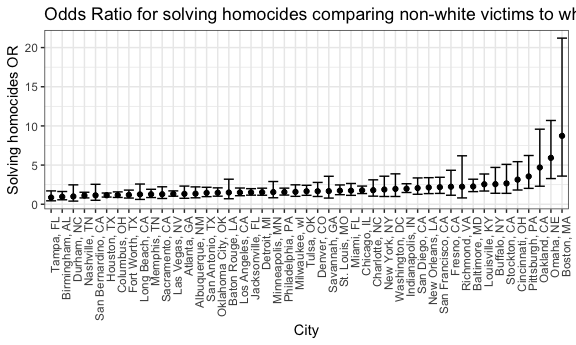
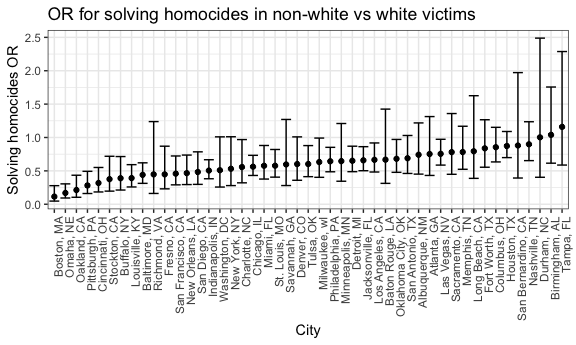
Finished

diff --git a/p8105_hw6_qg2155.md b/p8105_hw6_qg2155.md
@@ -67,7 +67,7 @@ homocide_data = homocide_data_raw %>%
          victim_race = fct_relevel(victim_race, "White"),
          victim_age = as.numeric(victim_age),
          case_status = if_else(disposition == "Closed by arrest", "Resolved", "Unresolved"),
-         case_status = fct_relevel(case_status, "Resolved")) %>%
+         case_status = fct_relevel(case_status, "Unresolved")) %>%
          mutate(city_state = paste(city,state, sep = ", ")) %>% 
          filter(!city_state %in% c("Dallas, TX", "Phoenix, AZ", "Kansas City, MO", "Tulsa, AL"))
 ```
@@ -90,8 +90,8 @@ baltimore_logistic =
   glm(case_status ~ victim_age + victim_sex + victim_race, data = ., family = binomial()) %>% 
   broom::tidy() %>% 
   mutate(OR = exp(estimate),
-         ci_l = exp(estimate - std.error * 1.96),
-         ci_h = exp(estimate + std.error * 1.96)) %>% 
+         ci_l = exp(estimate - (std.error * 1.96)),
+         ci_h = exp(estimate + (std.error * 1.96))) %>% 
   select(term, log_OR = estimate, OR, ci_l, ci_h, p.value) %>% 
   filter(term == "victim_raceNon-white") %>% 
   knitr::kable(digits = 3)
@@ -99,13 +99,15 @@ baltimore_logistic =
 baltimore_logistic
 ```
 
-| term                  |  log\_OR|    OR|  ci\_l|  ci\_h|  p.value|
-|:----------------------|--------:|-----:|------:|------:|--------:|
-| victim\_raceNon-white |     0.82|  2.27|  1.612|  3.196|        0|
+| term                  |  log\_OR|     OR|  ci\_l|  ci\_h|  p.value|
+|:----------------------|--------:|------:|------:|------:|--------:|
+| victim\_raceNon-white |    -0.82|  0.441|  0.313|   0.62|        0|
+
+In Baltimore, non-white victims have 0.441 times the odds of having a resolved homocide compared to white victims. We are 95% confident that the true odds ratio lies between 0.313 and 0.62. This odds ratio is statistically significant since the 95% confidence interval does not include the null value of 1 and the p-value is very close to 0.
 
 ### Logistic regression for all cities
 
-Odds ratio for solving homocides comparing non-white victims to white victims in every city
+Odds ratio for solving homocides comparing non-white victims to white victims in every city.
 
 Create nested dataset using city\_state
 
@@ -143,18 +145,18 @@ city_results
 ```
 
     ## # A tibble: 47 x 8
-    ##    city_state   data         term        log_OR    OR  ci_l  ci_h  p.value
-    ##    <chr>        <list>       <chr>        <dbl> <dbl> <dbl> <dbl>    <dbl>
-    ##  1 Albuquerque… <tibble [37… victim_ra…  0.299  1.35  0.821  2.22  2.38e-1
-    ##  2 Atlanta, GA  <tibble [97… victim_ra…  0.284  1.33  0.761  2.32  3.17e-1
-    ##  3 Baltimore, … <tibble [2,… victim_ra…  0.820  2.27  1.61   3.20  2.68e-6
-    ##  4 Baton Rouge… <tibble [42… victim_ra…  0.404  1.50  0.702  3.20  2.96e-1
-    ##  5 Birmingham,… <tibble [80… victim_ra… -0.0385 0.962 0.569  1.63  8.86e-1
-    ##  6 Boston, MA   <tibble [61… victim_ra…  2.17   8.73  3.59  21.2   1.72e-6
-    ##  7 Buffalo, NY  <tibble [52… victim_ra…  0.942  2.56  1.40   4.70  2.31e-3
-    ##  8 Charlotte, … <tibble [68… victim_ra…  0.584  1.79  1.03   3.12  3.83e-2
-    ##  9 Chicago, IL  <tibble [5,… victim_ra…  0.576  1.78  1.36   2.32  2.07e-5
-    ## 10 Cincinnati,… <tibble [69… victim_ra…  1.14   3.14  1.82   5.43  4.28e-5
+    ##    city_state   data        term        log_OR    OR   ci_l  ci_h  p.value
+    ##    <chr>        <list>      <chr>        <dbl> <dbl>  <dbl> <dbl>    <dbl>
+    ##  1 Albuquerque… <tibble [3… victim_ra… -0.299  0.741 0.451  1.22   2.38e-1
+    ##  2 Atlanta, GA  <tibble [9… victim_ra… -0.284  0.753 0.432  1.31   3.17e-1
+    ##  3 Baltimore, … <tibble [2… victim_ra… -0.820  0.441 0.313  0.620  2.68e-6
+    ##  4 Baton Rouge… <tibble [4… victim_ra… -0.404  0.668 0.313  1.43   2.96e-1
+    ##  5 Birmingham,… <tibble [8… victim_ra…  0.0385 1.04  0.615  1.76   8.86e-1
+    ##  6 Boston, MA   <tibble [6… victim_ra… -2.17   0.115 0.0472 0.278  1.72e-6
+    ##  7 Buffalo, NY  <tibble [5… victim_ra… -0.942  0.390 0.213  0.715  2.31e-3
+    ##  8 Charlotte, … <tibble [6… victim_ra… -0.584  0.558 0.321  0.969  3.83e-2
+    ##  9 Chicago, IL  <tibble [5… victim_ra… -0.576  0.562 0.431  0.733  2.07e-5
+    ## 10 Cincinnati,… <tibble [6… victim_ra… -1.14   0.318 0.184  0.551  4.28e-5
     ## # ... with 37 more rows
 
 Create plot for OR of each city
@@ -166,7 +168,7 @@ city_results %>%
   geom_point() +
   geom_errorbar(aes(ymin = ci_l, ymax = ci_h)) +
   labs(
-    title = "Odds Ratio for solving homocides comparing non-white victims to white victims by city",
+    title = "OR for solving homocides in non-white vs white victims",
     x = "City",
     y = "Solving homocides OR"
   ) +
@@ -175,7 +177,7 @@ city_results %>%
 
 <img src="p8105_hw6_qg2155_files/figure-markdown_github/city plot-1.png" width="90%" />
 
-Boston has the highest odds of solved homocides for non-white victims.
+As seen from this plot, Boston has the lowest odds of solved homocides for non-white victims. Followed by Omaha and Oakland all at an odds ratio of under 0.25. The cities where non-white victims have highest odds for solved homocides compared to white victims are Tampa, Birmingham, and Durham with odds ratios between 1 and 1.25. These cities with high odds ratios also have much wider confidence intervals, especially Durham with the upper bounds reaching 2.5.
 
 Question 2
 ----------
@@ -200,7 +202,7 @@ bw_data = read_csv(file = "./birthweight.csv") %>%
 
     ## See spec(...) for full column specifications.
 
-This dataset has 4342 observations and 20 variables. Categorical variables have been switched to factors. Using the commant skimr::skim, none of the variables seem to be missing any observations.
+This dataset has 4342 observations and 20 variables. Categorical variables have been switched to factors. Using skimr::skim, we can see that none of the variables seem to be missing any observations.
 
 ``` r
 bw_data %>% 
@@ -211,7 +213,7 @@ bw_data %>%
     ##  n obs: 4342 
     ##  n variables: 20 
     ## 
-    ## ── Variable type:factor ─────────────────────────────────────────────────────
+    ## ── Variable type:factor ────────────────────────────────────────────────────────
     ##  variable missing complete    n n_unique                      top_counts
     ##   babysex       0     4342 4342        2         1: 2230, 2: 2112, NA: 0
     ##     frace       0     4342 4342        5 1: 2123, 2: 1911, 4: 248, 3: 46
@@ -223,7 +225,7 @@ bw_data %>%
     ##    FALSE
     ##    FALSE
     ## 
-    ## ── Variable type:integer ────────────────────────────────────────────────────
+    ## ── Variable type:integer ───────────────────────────────────────────────────────
     ##  variable missing complete    n      mean     sd  p0  p25    p50  p75 p100
     ##     bhead       0     4342 4342   33.65     1.62  21   33   34     35   41
     ##   blength       0     4342 4342   49.75     2.72  20   48   50     51   63
@@ -253,7 +255,7 @@ bw_data %>%
     ##  ▁▇▆▁▁▁▁▁
     ##  ▁▁▁▇▇▁▁▁
     ## 
-    ## ── Variable type:numeric ────────────────────────────────────────────────────
+    ## ── Variable type:numeric ───────────────────────────────────────────────────────
     ##  variable missing complete    n  mean   sd    p0   p25   p50   p75 p100
     ##   gaweeks       0     4342 4342 39.43 3.15 17.7  38.3  39.9  41.1  51.3
     ##     ppbmi       0     4342 4342 21.57 3.18 13.07 19.53 21.03 22.91 46.1
@@ -265,7 +267,12 @@ bw_data %>%
 
 ### Proposed linear model for birthweight (bwt)
 
-mother's age at devlivery: momage, previous number of low birth weight babies: pnumlbw, family monthly income: fincome, gestational age in weeks: gaweeks
+I picked the following predictors because they seem to be related to baby birthweight based on prior knowledge from other public health courses.
+
+-   mother's age at devlivery: momage,
+-   previous number of low birth weight babies: pnumlbw,
+-   family monthly income: fincome,
+-   gestational age in weeks: gaweeks
 
 ``` r
 bwt_linear = lm(bwt ~ momage + pnumlbw + fincome + gaweeks, data = bw_data) 
@@ -273,28 +280,68 @@ bwt_linear = lm(bwt ~ momage + pnumlbw + fincome + gaweeks, data = bw_data)
 
 Graphing the proposed linear model
 
+Violin plots for residuals and predictors
+
+``` r
+bw_data %>% 
+  modelr::add_residuals(bwt_linear) %>% 
+  ggplot(aes(x = momage, y = resid)) + geom_violin()
+```
+
+<img src="p8105_hw6_qg2155_files/figure-markdown_github/unnamed-chunk-4-1.png" width="90%" />
+
+``` r
+bw_data %>% 
+  modelr::add_residuals(bwt_linear) %>% 
+  ggplot(aes(x = pnumlbw, y = resid)) + geom_violin()
+```
+
+<img src="p8105_hw6_qg2155_files/figure-markdown_github/unnamed-chunk-4-2.png" width="90%" />
+
+``` r
+bw_data %>% 
+  modelr::add_residuals(bwt_linear) %>% 
+  ggplot(aes(x = fincome, y = resid)) + geom_violin()
+```
+
+<img src="p8105_hw6_qg2155_files/figure-markdown_github/unnamed-chunk-4-3.png" width="90%" />
+
+``` r
+bw_data %>% 
+  modelr::add_residuals(bwt_linear) %>% 
+  ggplot(aes(x = gaweeks, y = resid)) + geom_violin()
+```
+
+<img src="p8105_hw6_qg2155_files/figure-markdown_github/unnamed-chunk-4-4.png" width="90%" />
+
+-   These violin plots show that the residual is around 0 for each of the predictors, which is what we want to see.
+
 ``` r
 bw_data %>% 
   add_residuals(bwt_linear) %>% 
   add_predictions(bwt_linear) %>% 
-  ggplot(aes(x = pred, y = resid)) + geom_point()
+  ggplot(aes(x = pred, y = resid)) + 
+  geom_point() +
+  labs(
+    title = "Model residuals vs Fitted values",
+    x = "Predicted (fitted) values",
+    y = "Residuals"
+  ) 
 ```
 
-    ## Warning in predict.lm(model, data): prediction from a rank-deficient fit
-    ## may be misleading
+<img src="p8105_hw6_qg2155_files/figure-markdown_github/unnamed-chunk-5-1.png" width="90%" />
 
-    ## Warning in predict.lm(model, data): prediction from a rank-deficient fit
-    ## may be misleading
+This graph show that there is a random scatter of residuals where there is no particular pattern or trend seen in residuals of fitted values. This means that they are independent from the fitted values. Furthermore, the data points are generally scattered around 0 for residuals as expected.
 
-<img src="p8105_hw6_qg2155_files/figure-markdown_github/unnamed-chunk-4-1.png" width="90%" />
-
-Main effect and interaction models
+### Main effect and interaction models
 
 ``` r
 bwt_maineff = lm(bwt ~ blength + gaweeks, data = bw_data)
 
 bwt_interact = lm(bwt ~ bhead + blength + babysex + bhead*blength + bhead*babysex + blength*babysex + bhead*blength*babysex, data = bw_data)
 ```
+
+### Cross validation
 
 ``` r
 cv_df = 
@@ -304,7 +351,7 @@ cv_df =
 ``` r
 cv_df = 
   cv_df %>% 
-  mutate(bwt_linear = map(train, ~lm(bwt ~ blength + gaweeks, data = .x)),
+  mutate(bwt_linear = map(train, ~lm(bwt ~ momage + pnumlbw + fincome + gaweeks, data = .x)),
          bwt_maineff = map(train, ~lm(bwt ~ blength + gaweeks, data = .x)),
          bwt_interact = map(train, ~lm(bwt ~ bhead + blength + babysex + bhead*blength + bhead*babysex + blength*babysex + bhead*blength*babysex, data = .x))) %>% 
   mutate(rmse_linear = map2_dbl(bwt_linear, test, ~rmse(model = .x, data = .y)),
@@ -320,12 +367,17 @@ cv_df %>%
   gather(key = model, value = rmse) %>%  
   mutate(model = str_replace(model, "rmse_", ""),
          model = fct_inorder(model)) %>% 
-  ggplot(aes(x = model, y = rmse)) + geom_violin()
+  ggplot(aes(x = model, y = rmse)) + geom_violin() +
+  labs(
+    title = "RMSE for each birthweight model",
+    x = "Model",
+    y = "RMSE"
+  ) 
 ```
 
-<img src="p8105_hw6_qg2155_files/figure-markdown_github/unnamed-chunk-8-1.png" width="90%" />
+<img src="p8105_hw6_qg2155_files/figure-markdown_github/unnamed-chunk-9-1.png" width="90%" />
 
-The interaction model has the lowest rmse (287.4692) and therefore it is the best model.
+This plot shows the distribution of RMSE values for each model. The proposed model has the highest RMSE values. The main effect model appears to be in between proposed and interaction models for distribution of RMSE. However, the interaction model seems to be the best out of the three because it has the lowest RMSE values.
 
 ``` r
 rmse(bwt_linear, bw_data)
@@ -347,3 +399,5 @@ rmse(bwt_interact, bw_data)
 ```
 
     ## [1] 287.4692
+
+To further confirm, the interaction model has the lowest rmse of 287.4692. This is much smaller than the proposed model (RMSE:462.1494) and the main effect model (RMSE:333.1023). Therefore, the interaction model is the best model.
